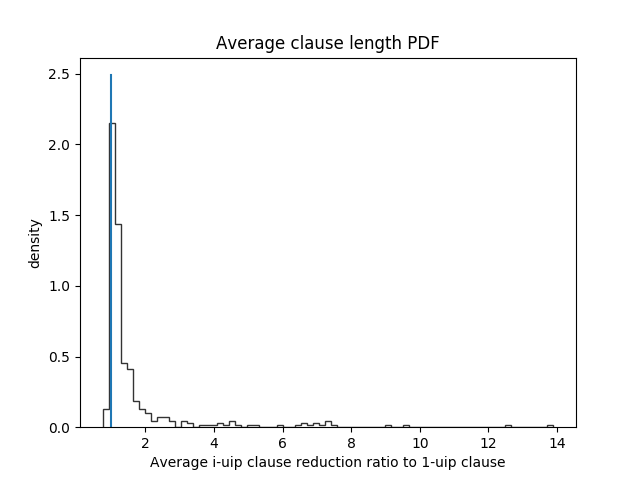
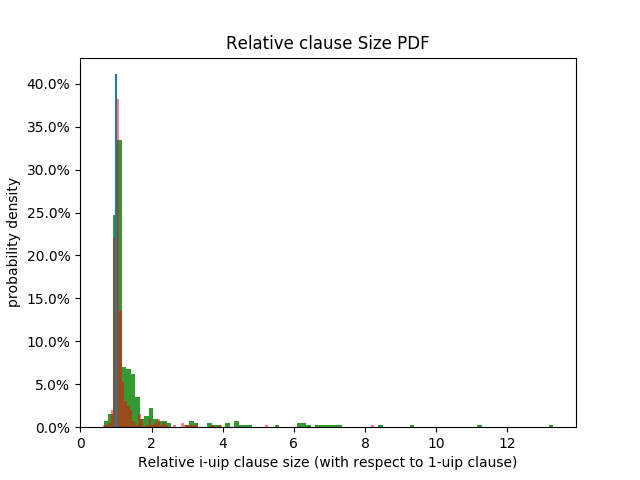
revision and reformatting

diff --git a/sections/evaluation.tex b/sections/evaluation.tex
@@ -1,7 +1,7 @@
 \section{Implementation and Experiments}
 
 \subsection{Clause Reduction with $\IUIP$}
-To evaluate $\IUIP$'s effectiveness as a clause reduction technique, we implement  $\IUIPPURE$ and $\IUIPMIN$  on top of \text{\MapleBase} \cite{}, the winner of SAT Race 2015 application track.  We than compare the performance of the baseline $\MapleBase$ with $\MapleIUIPPURE$ and $\MapleIUIMIN$ on the full set of benchmarks from SAT RACE 2019 main track.
+To evaluate $\IUIP$'s effectiveness as a clause reduction technique, we implement  $\IUIPPURE$ and $\IUIPMIN$ with Control-I-UIP and Early Stopping rules in Sec~\ref{sec:i-uip} on top of \text{\MapleBase} \cite{}, the winner of SAT Race 2015 application track.  We than compare the performance of the baseline $\MapleBase$ with $\MapleIUIPPURE$ and $\MapleIUIMIN$ on the full set of benchmarks from SAT RACE 2019 main track.
 
 The benchmark contains 400 instances divided into two groups of 200, new and old, representing historical instances and fresh instances in the 2019 race, respectively. I partition the old group instances into six partitions of size 30 and one partition of size 20. Each partition is then assigned to a XeonE5-2 CPU node with 16 cores (2 sockets 8 cores  and  1 thread) and 96649 MB memory. The new group is partitioned based on their contributor (e.g. Heule contributed 22 matrix multiplication instances), and each partition is assigned to a aforementioned CPU node. To speed up the experiment, we allow a CPU node to solver at most seven instances concurrently. 
 
@@ -26,24 +26,25 @@ CL Reduction\% is the clause size reduction ratio comparing to non-minimized 1-U
 \label{fig:t1}
 \end{figure}
 
-Fig.~\ref{fig:t1} shows that both version of $\IUIP$ solved five more instances than the baseline solver with lower PAR-2 scores. $\IUIPMIN$ has marginally lower PAR-2 score than $\IUIPPURE$. Both $\IUIPPURE$ and $\IUIPMIN$ produce clause with significantly smaller size than 1-UIP by 27.7\% and 20.7\%, respectively. Fig.~\ref{fig:len_pdf} shows the probability density distribution (PDF) of the average clause length reduction of $\IUIPMIN$ relative to 1-UIP. $\IUIPMIN$ learning produces shorter clauses for 88.25\% instances, and average relative reduction from 1-UIP is 18.685\%. Fig.~\ref{fig:len_compare} compares the absolute average clause size from $\IUIPMIN$ and 1-UIP, and it shows that $\IUIPMIN$ in general produces smaller clauses, and the size reduction is more significant for instances with large average 1-UIP clause size. 
+Fig.~\ref{fig:t1} shows that $\IUIPPURE$ ($\IUIPPURE$) solved seven (five) more instances than the baseline solver with lower PAR-2 scores. $\IUIPPURE$ has marginally lower PAR-2 score than $\IUIPPURE$. Both $\IUIPPURE$ and $\IUIPMIN$ produce clause with significantly smaller size than 1-UIP by  20.4\% and 27.7\%, respectively. Fig.~\ref{fig:len_pdf} shows the probability density distribution (PDF) of the relative clause size of both i-uip learning schemes ($\IUIPPURE$ in red and $\IUIPMIN$ in green) for each instance. $\IUIPPURE$ ($\IUIPMIN$) produces shorter clauses for 76.5\% (88.25\%) of instances, and average relative reduction from 1-UIP is 16.7\% (18.6\%). Fig.~\ref{fig:len_compare} compares the absolute clause size of $\IUIPMIN$, $\IUIPPURE$ and 1-UIP, and it shows that both i-UIP learning schemes in general produce the smaller clauses, and the size reduction is more significant for instances with large average 1-UIP clause size. Moreover, $\IUIPMIN$ clauses (indicated in green) is consistently smaller than $\IUIPPURE$ clauses.
+
 \begin{figure}
     \centering
     \includegraphics[width=0.8\textwidth,natwidth=610,natheight=642]{figures/factor_clause_length_PDF.png}
-    \caption{ Relative Clause size distribution. X axis indicates the relative size of i-uip clause (with respect to 1-uip clause) for each instance, and Y axis indicates the probability density.}
+    \caption{ Relative Clause size distribution. X axis indicates the relative size of i-uip clause (with respect to 1-uip clause) for each instance, and Y axis indicates the probability density. $\IUIPMIN$ and $\IUIPPURE$ are illustrated with green and red, respectively}
      \label{fig:len_pdf}
 \end{figure}
 \begin{figure} \label{fig:len_compare}
     \centering
     \includegraphics[width=0.8\textwidth,natwidth=610,natheight=642]{i-uip-sizes-compare.png}
-    \caption{Average clause size comparison plot. Each point in the plot represents an instance. X and Y axis shows the clause length from $\IUIP$ and 1-UIP, respectively. Each green (red) dot represents an compared instance between $\MapleBase$ and $\MapleIUIMIN$ ($\IUIPPURE$).   }
+    \caption{Average clause size comparison plot. Each point in the plot represents an instance. X and Y axis shows the clause length from $\IUIP$ and 1-UIP, respectively. Each green (red) dot represents an compared instance between $\MapleBase$ and $\MapleIUIMIN$ ($\IUIPPURE$). }
     \label{fig:len_compare}
 \end{figure}
+\nf{ Do we need this?
+We additionally looked at the 14 instances solved by $\IUIPMIN$ but not by 1-UIP. $\IUIPMIN$ produces smaller clauses for all of them with average relative reduction of 22\% and maximum 77\% (30 vs 135). Seven out of 14 instances has size relative reduction over 30\%. For the 9 instances solved by 1-UIP but not by $\IUIPMIN$, $\IUIPMIN$ only produce smaller clause for three instances and with average relative reduction of 3.3\%.}
 
-We also looked at the 14 instances solved by $\IUIPMIN$ but not by 1-UIP. $\IUIPMIN$ produces smaller clauses for all of them with average relative reduction of 22\% and maximum 77\% (30 vs 135). Seven out of 14 instances has size relative reduction over 30\%. For the 9 instances solved by 1-UIP but not by $\IUIPMIN$, $\IUIPMIN$ only produce smaller clause for three instances and with average relative reduction of 3.3\%.
 
-
-$\IUIPMIN$ outperformed $\IUIPPURE$ in both PAR-2 score and clause size.  This results agrees with our observation in Fig.~\ref{fig:t2}: $\IUIPMIN$ attempted $\IUIP$ learning more frequently, and it is more likely to succeed. Remark that the success of $\IUIP$ learning is determined by the size of the learned i-UIP clause $\iUIPClause$, and the $\IUIP$ learning frequency is also indirectly controlled by $\IUIP$'s success rate from the previous restart interval. The results indicates  $\IUIPMIN$ shortened $\iUIPClause$'s size through further minimization of $\iUIPClause$ at non-unique implication decision level.
+$\IUIPMIN$ outperformed $\IUIPPURE$ in clause size.  This results agrees with our observation in Fig.~\ref{fig:t2}: $\IUIPMIN$ attempted $\IUIP$ learning more frequently, and it is more likely to succeed. Remark that the success of $\IUIP$ learning is determined by the size of the learned i-UIP clause $\iUIPClause$, and the $\IUIP$ learning frequency is also indirectly controlled by $\IUIP$'s success rate from the previous restart interval. The results indicates  $\IUIPMIN$ shortened $\iUIPClause$'s size through further resolutions of $\iUIPClause$ at non-unique implication decision level. 
 
 \begin{figure} 
 \begin{center} 
@@ -61,7 +62,7 @@ $\MapleIUIMIN$ & 28.8\% & 59.3\% \\
 \label{fig:t2}
 \end{figure}
 
-A solver produce smaller clauses can construct smaller proofs. For UNSAT instances, we additionally measure their DRUP\cite{} proof checking time as well as the size of the optimized DRUP proof. We used DART-trim \cite{} with 5000 timeout to check and optimize DRUP proofs. 
+A solver produce smaller clauses can construct smaller proofs. For UNSAT instances, we measure their DRUP\cite{} proof checking time as well as the size of the optimized DRUP proof. We used DART-trim \cite{} with 5000 timeout to check and optimize DRUP proofs. 
 
 Fig.~\ref{fig:t3} shows that the optimized proof construct by $\IUIPMIN$ and $\IUIPPURE$ are significantly smaller than 1-UIP proofs. The relative proof size reduction roughly correlates to the average clause size reduction. Fig.~\ref{fig:proof_compare} shows the absolute proof size comparison results. 
 
@@ -90,10 +91,6 @@ $\MapleIUIMIN$ & 413.2 & 17.18\% \\
     \label{fig:proof_compare}
 \end{figure}
 
-\subsection{$\IUIP$ as a Practical Learning Scheme}
-To evaluate $\IUIP$'s effectiveness as a clause learning scheme, we implement $\IUIPMIN$ on $\MapleBase$ with the extensions mentioned in section~\ref{sec:i-uip}. We evaluated four different configurations (i-UIP, i-UIP-Greedy, i-UIP-Inclusive, and i-UIP-Exclusive) of $\IUIP$ and 1-UIP learning on the SAT Race 2019 main track benchmark and report each configuration's solved instances, PAR-2 score and average clause size. 
-
-Fig.~\ref{fig:t4} summarizes the result of the experiment. Learning scheme i-UIP-greedy solves the same amount of instance (226) as i-UIP with less PAR-2 score. The inclusive activity adjustment solves the most SAT instances (138) and the least UNSAT instances (87). The exclusive activity adjustment scheme produces the shortest average clause size, but solved the second least instances, one more instance than the baseline.  
 
 \begin{figure} 
 \begin{center}
@@ -119,6 +116,12 @@ i-UIP-active-Exclusive & 223 (134, 89) & 5015.23 & \textbf{43.2} \\
 i-UIP-Inclusive, and i-UIP-Exclusive on SAT2019 race main track.}
 \label{fig:t4}
 \end{figure}
+
+\subsection{$\IUIP$ as a Practical Learning Scheme}
+To evaluate $\IUIP$'s effectiveness as a clause learning scheme, we implement $\IUIPMIN$ on $\MapleBase$ with the extensions mentioned in section~\ref{sec:i-uip}. We evaluated five configurations (i-UIP-PURE, i-UIP, i-UIP-Greedy, i-UIP-Inclusive, and i-UIP-Exclusive) of $\IUIP$ and 1-UIP learning on the SAT Race 2019 main track benchmark and report each configuration's solved instances, PAR-2 score and average clause size. 
+
+Fig.~\ref{fig:t4} summarizes the result of the experiment. Learning scheme i-UIP-PURE the most overall instances (228) and the most UNSAT instances (93). The i-uip-greedy scheme has the lowest PAR-2 score. The inclusive activity adjustment solves the most SAT instances (138). The exclusive activity adjustment scheme produces the shortest average clause size, but solved the second least instances, one more instance than the baseline. All configurations of $\IUIP$ outperform the baseline 1-UIP scheme in solved instances, PAR-2 score and average clause size.
+
 
 
 \nf{Inserted a table here, and graphs and analysis}

diff --git a/sections/i_uip.tex b/sections/i_uip.tex
@@ -47,8 +47,8 @@ The algorithm $\IUIP$ computes $\iUIPClause$ from (line~\ref{ln:init} to \ref{ln
 $\oneUIPClause$ and $\iUIPClause$ (line~\ref{ln:checkSize} to \ref{ln:cSizeCheck}). 
 The algorithm first initializes $\iUIPClause$ with the minimized\cite{} $\oneUIPClause$. Next, the algorithm iterate through the decision levels of $\iUIPClause$ in descending order (line~\ref{ln:iterDecisionLvls}) and tries to find the unique implication point in each level (line~\ref{ln:uip}). Since $\IUIP$ needs to preserve $\iUIPClause$'s $\LBD$ during resolutions, before resolving away a target literal $p$, the algorithm preemptively checks whether the reasoning clause of $\neg{p}$ contains any literal $q$ from an unseen decision level (line~\ref{ln:resolvable}). If such a literal $q$ exists, then the algorithm cannot find the unique implication point (UIP) at the current level $i$ because resolving away $p$ will introduce $q$ into the clause and increases $\LBD$. One solution is to abandon level $i$ by reverting back to the state before any literal at level $i$ is resolved away (line~\ref{ln:unresolve}), and then move on to the next level (line~\ref{ln:abondon}). We denote $\IUIP$ learning with this solution as $\IUIPPURE$. The final $\iUIPClause$ produced by $\IUIPPURE$ will contains exactly one literal for levels where the LBD-persevering UIP exist. However, $\IUIPPURE$ does not minimize the number of literals in the decision levels where the LBD-preserving UIP does not exist, and clause minimization techniques\cite{} can be used to further reduce the clause size (line~\ref{ln: 2ndMinStart} to \ref{ln: 2ndMinEnd}). 
 
-  When $\IUIP$ cannot resolve away a literal $p$ without increasing $\iUIPClause$'s LBD, instead of skipping the entire decision level $i$, a more practical solution $\IUIPMIN$ will mark and keep $p$ in $\iUIPClause$ (line~\ref{ln:mark}), and continue the resolutions at level $i$. $\IUIPMIN$ will ignore all the unsolvable literals and find the "local" unique implication point at every decision level.  The algorithm terminates when there is exactly one unmarked literal left for each decision level of $\iUIPClause$, representing the local unique implication points. The clause $\iUIPClause$ learnt by
-  $\IUIPMIN$ is minimized\footnote{clause size cannot be reduced via minimization techniques\cite{}.}, we defer the minimization proof to Appendix~\ref{}.  
+  When $\IUIP$ cannot resolve away a literal $p$ without increasing $\iUIPClause$'s LBD, instead of skipping the entire decision level $i$, another solution $\IUIPMIN$  simply marks literal $p$ and keep it  in $\iUIPClause$ (line~\ref{ln:mark}). The learning scheme then continue the resolutions at level $i$. $\IUIPMIN$ will ignore all the unsolvable literals and find the "local" unique implication point at every decision level.  The algorithm terminates when there is exactly one unmarked literal left for each decision level of $\iUIPClause$, representing the local unique implication points. The clause $\iUIPClause$ learnt by
+  $\IUIPMIN$ is minimized\footnote{clause size cannot be reduced via minimization techniques\cite{}.}, we defer the proof of minimization to Appendix~\ref{}.  
 
 The core algorithm of $\IUIP$ as a clause reduction technique is simple. However, to make the algorithm a practical learning scheme that is compatible with modern SAT solvers, a number of issues need to be addressed. The rest of the section details the key optimizations and augmentations of $\IUIP$ as a practical clause learning scheme.
 
@@ -87,7 +87,9 @@ The gap threshold $t_{gap}$ is initialized to 0, and is updated at every restart
 \]
 
 \subsection{Early stop i-UIP Learning}
-At any point of $\IUIP$ learning, if the number of marked literals in $\iUIPClause$ (literals which are forced into the clause to preserve $\LBD$) exceeds the input clause $\oneUIPClause$'s $\GAP$, we can abort $\IUIP$ learning for $\oneUIPClause$ because the size of the final $\iUIPClause$ is at least the size of $\oneUIPClause$. The early stopping rule prevents solver from wasting time on traversing a large implication graph when $\IUIP$ has already failed.
+At any point of $\IUIPMIN$ learning, if the number of marked literals in $\iUIPClause$ (literals which are forced into the clause to preserve $\LBD$) exceeds the input clause $\oneUIPClause$'s $\GAP$, we can abort $\IUIP$ learning for $\oneUIPClause$ because the size of the final $\iUIPClause$ is at least the size of $\oneUIPClause$.  The early stopping rule prevents solver from wasting time on traversing a large implication graph when $\IUIP$ has already failed. 
+
+The early stopping rule may prematurely stops $\IUIPPURE$ learning which would otherwise succeed because $\iUIPClause$ can be further minimized. However, the experiments indicates such false negative cases are rare, and the early stopping rule generally helps the learning scheme's performance.
 
 \subsection{Greedy Active Clause Selection} \label{sec:greedy}
 Even though $\IUIP$ learning can reduce the size of the learnt clause $\iUIPClause$, but it may introduce literals with low variable activity into $\iUIPClause$.  Inactive literals prevents the clause from being asserted to force literal implication. Therefore, a practical clause learning scheme should consider both size and variable activity. We propose an optional extension $\IUIPGreedy$ to filter out inactive $\oneUIPClause$.  
@@ -113,7 +115,7 @@ After computing the $\iUIPClause$, $\IUIPGreedy$ compares both the size and the 
 Two popular branching heuristics for modern SAT solvers are VSIDS and LBR. Both heuristics increase 
 the variable activity for all literals involved in resolutions during 1-UIP learning. Since $\IUIP$ extends 1-UIP with deeper resolutions against the trail, the variables activities for the fresh literals involved in the additional resolution steps need to be adjusted as well. We purpose two optional schemes for adjusting variable activities, $\IUIPActive$ and $\IUIPDist$. 
 
-After learning $\oneUIPClause$ from 1-UIP scheme, $\IUIPActive$ collects all literals appear  in the the $\IUIP$ clause $\iUIPClause$, and increase their variable activity uniformly according to the current branching heuristic if the literals' variable activity have not yet been bumped during 1-UIP. The scheme does not bump variable activities for transient literals that are resolved away at non-conflicting level because, unlike transient literals at conflicting level, these literals cannot be re-asserted after the immediate backtracking. Notice that other post-analyze extensions such as Reason Side Rate (RSR) and Locality\cite{} can be applied after applying $\IUIPActive$ on $\iUIPClause$ so that no literal's variable activity is double bumped.
+After learning $\oneUIPClause$ from 1-UIP scheme, $\IUIPActive$ collects all literals appear  in the the $\IUIP$ clause $\iUIPClause$, and increase their variable activity uniformly according to the current branching heuristic if the literals' variable activity have not yet been bumped during 1-UIP. The scheme does not bump variable activities for transient literals that are resolved away at non-conflicting level because, unlike transient literals at conflicting level, these literals cannot be re-asserted after the immediate backtracking. Notice that other post-analyze extensions such as Reason Side Rate (RSR) and Locality\cite{} can be applied after $\IUIPActive$.
 
 \[ \forall l \in  \iUIPClause \cdot NotBumped(var(l)) \implies  bumpActivity(var(l)) \]
 
